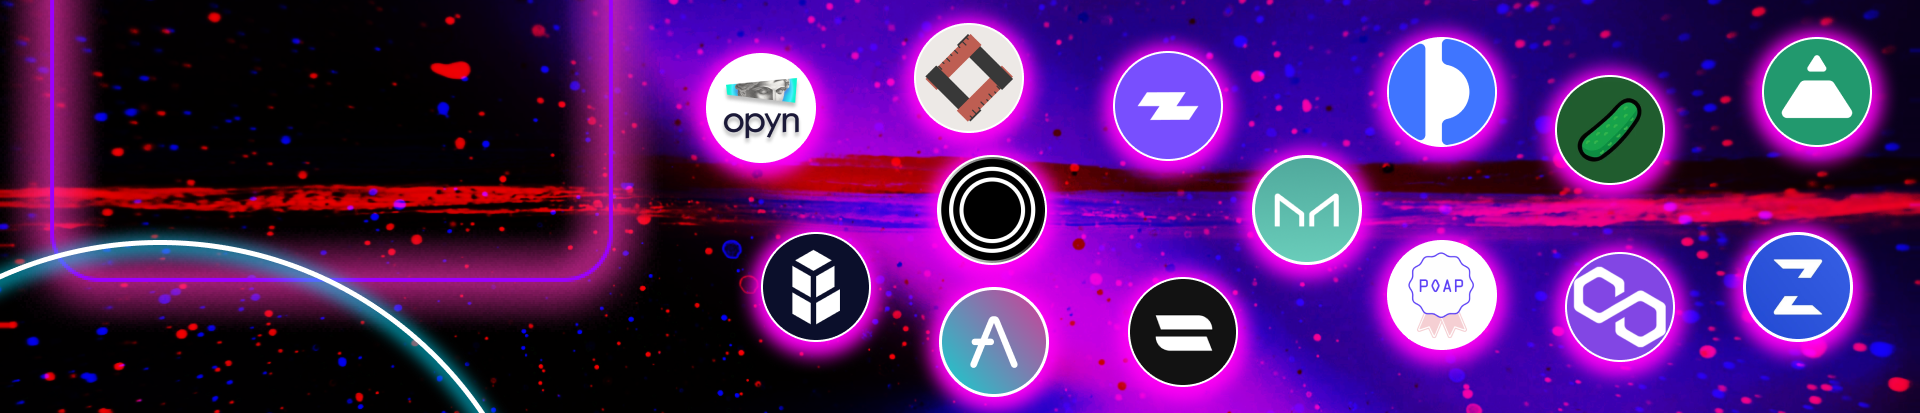
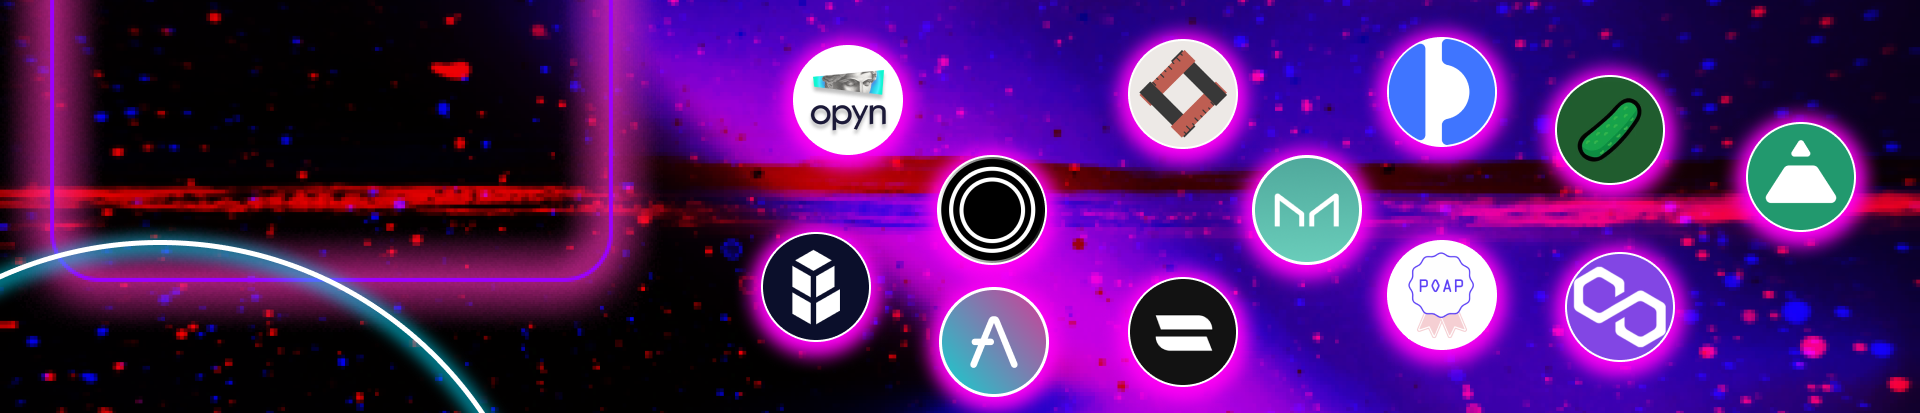
all issues page layout changed.

diff --git a/src/components/IssueCard/styles.module.scss b/src/components/IssueCard/styles.module.scss
@@ -9,18 +9,13 @@
       0px 4px 4px rgba(0, 0, 0, 0.25), 0px 4px 4px rgba(0, 0, 0, 0.25),
       0px 4px 4px rgba(0, 0, 0, 0.25), 0px 4px 4px rgba(0, 0, 0, 0.25);
     border: 10px solid #ab4a7f;
-    width: 411px;
-    height: 511px;
+    width: 100%;
     object-fit: cover;
 
     @include media-xs {
       width: 100%;
     }
-
-    @include media-sm {
-      width: 411px;
-    }
-
+  
     margin-bottom: 1.5rem;
   }
 

diff --git a/src/pages/all-issues/styles.module.scss b/src/pages/all-issues/styles.module.scss
@@ -96,12 +96,17 @@
     }
 
     .issues {
-      display: flex;
-      flex-wrap: wrap;
+      display: grid;
+      grid-template-columns: 1fr;
+      gap: 1rem;
       align-items: center;
 
-      .issue {
-        margin-right: 1rem;
+      @include media-sm {
+        grid-template-columns: repeat(2, 1fr);
+      }
+
+      @include media-lg {
+        grid-template-columns: repeat(3, 1fr);
       }
     }
   }
